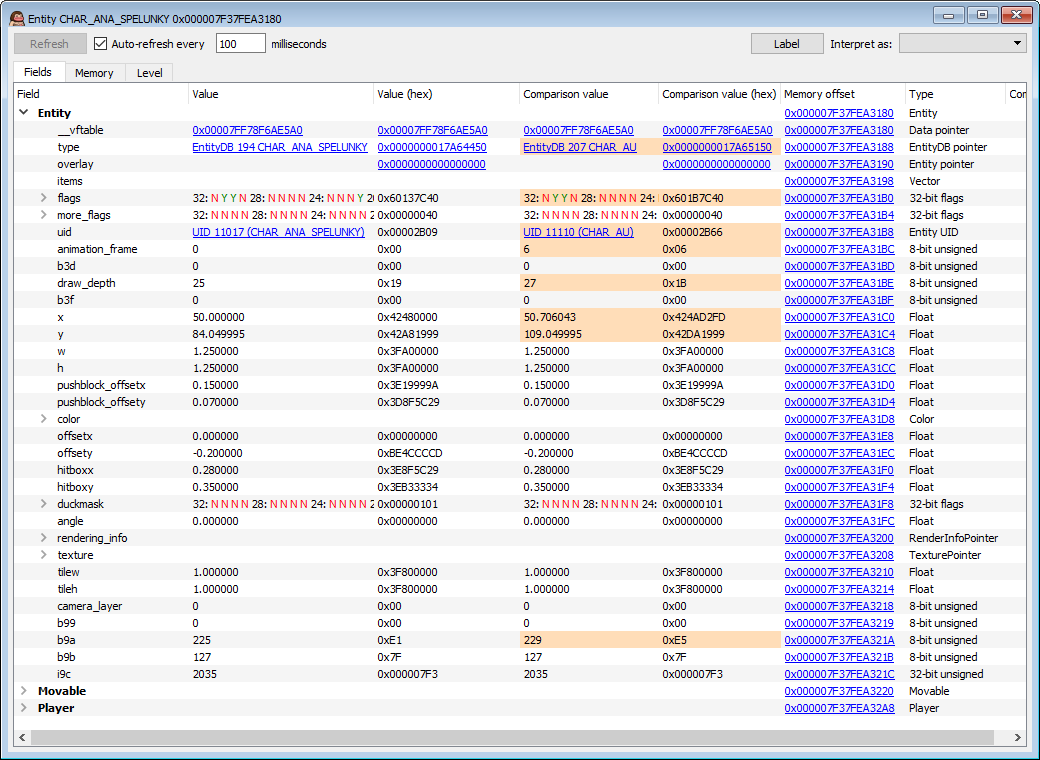
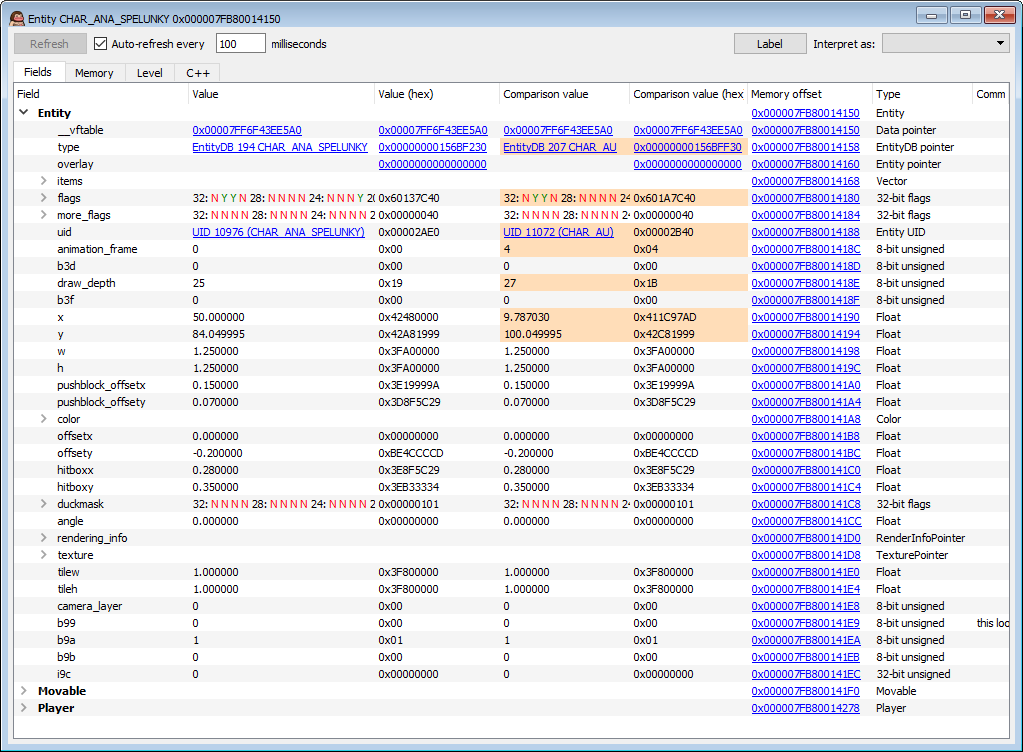
bump version + update readme + bugfix showing memory comparison

diff --git a/src/Data/Entity.cpp b/src/Data/Entity.cpp
@@ -264,6 +264,7 @@ void S2Plugin::Entity::highlightComparisonField(MemoryField field, const std::st
         {
             isDifferent = Script::Memory::ReadQword(mMemoryOffsets.at(fieldNameOverride)) != Script::Memory::ReadQword(mMemoryOffsets.at("comparison." + fieldNameOverride));
             fieldSize = 8;
+            break;
         }
         case MemoryFieldType::InlineStructType:
         {

diff --git a/include/pluginmain.h b/include/pluginmain.h
@@ -6,7 +6,7 @@
 #else
 #define PLUGIN_NAME "UnnamedPlugin"
 #endif // PLUGIN_NAME
-#define PLUGIN_VERSION 9
+#define PLUGIN_VERSION 10
 
 #include <windows.h>
 

diff --git a/README.md b/README.md
@@ -80,6 +80,11 @@ Hover over the field to see the name on the tooltip.
 
 ![Entity Level](/resources/docs_entity_level.png)
 
+The C++ tab gives you a copy-pasteable C++ header for use in e.g. Overlunky.
+
+![Entity c++ header](/resources/docs_entity_cpp.png)
+
+
 You can compare two entities by first opening an entity window, and then dragging another entity from the 'Entities' window on top of the original entity window. Two more columns will appear in the fields table. The fields with an orange background differ from the original entity.
 
 ![Entity Fields Comparison](/resources/docs_entity_compare_fields.png)
@@ -87,6 +92,13 @@ You can compare two entities by first opening an entity window, and then draggin
 The memory viewer (as well as the level viewer) also show the other entity for comparison.
 
 ![Entity Memory Comparison](/resources/docs_entity_compare_memory.png)
+
+## Strings table
+
+Shows a list of all the strings defined in the game.
+
+![Strings table](/resources/docs_stringstable.png)
+
 
 
 ## Advanced usage
